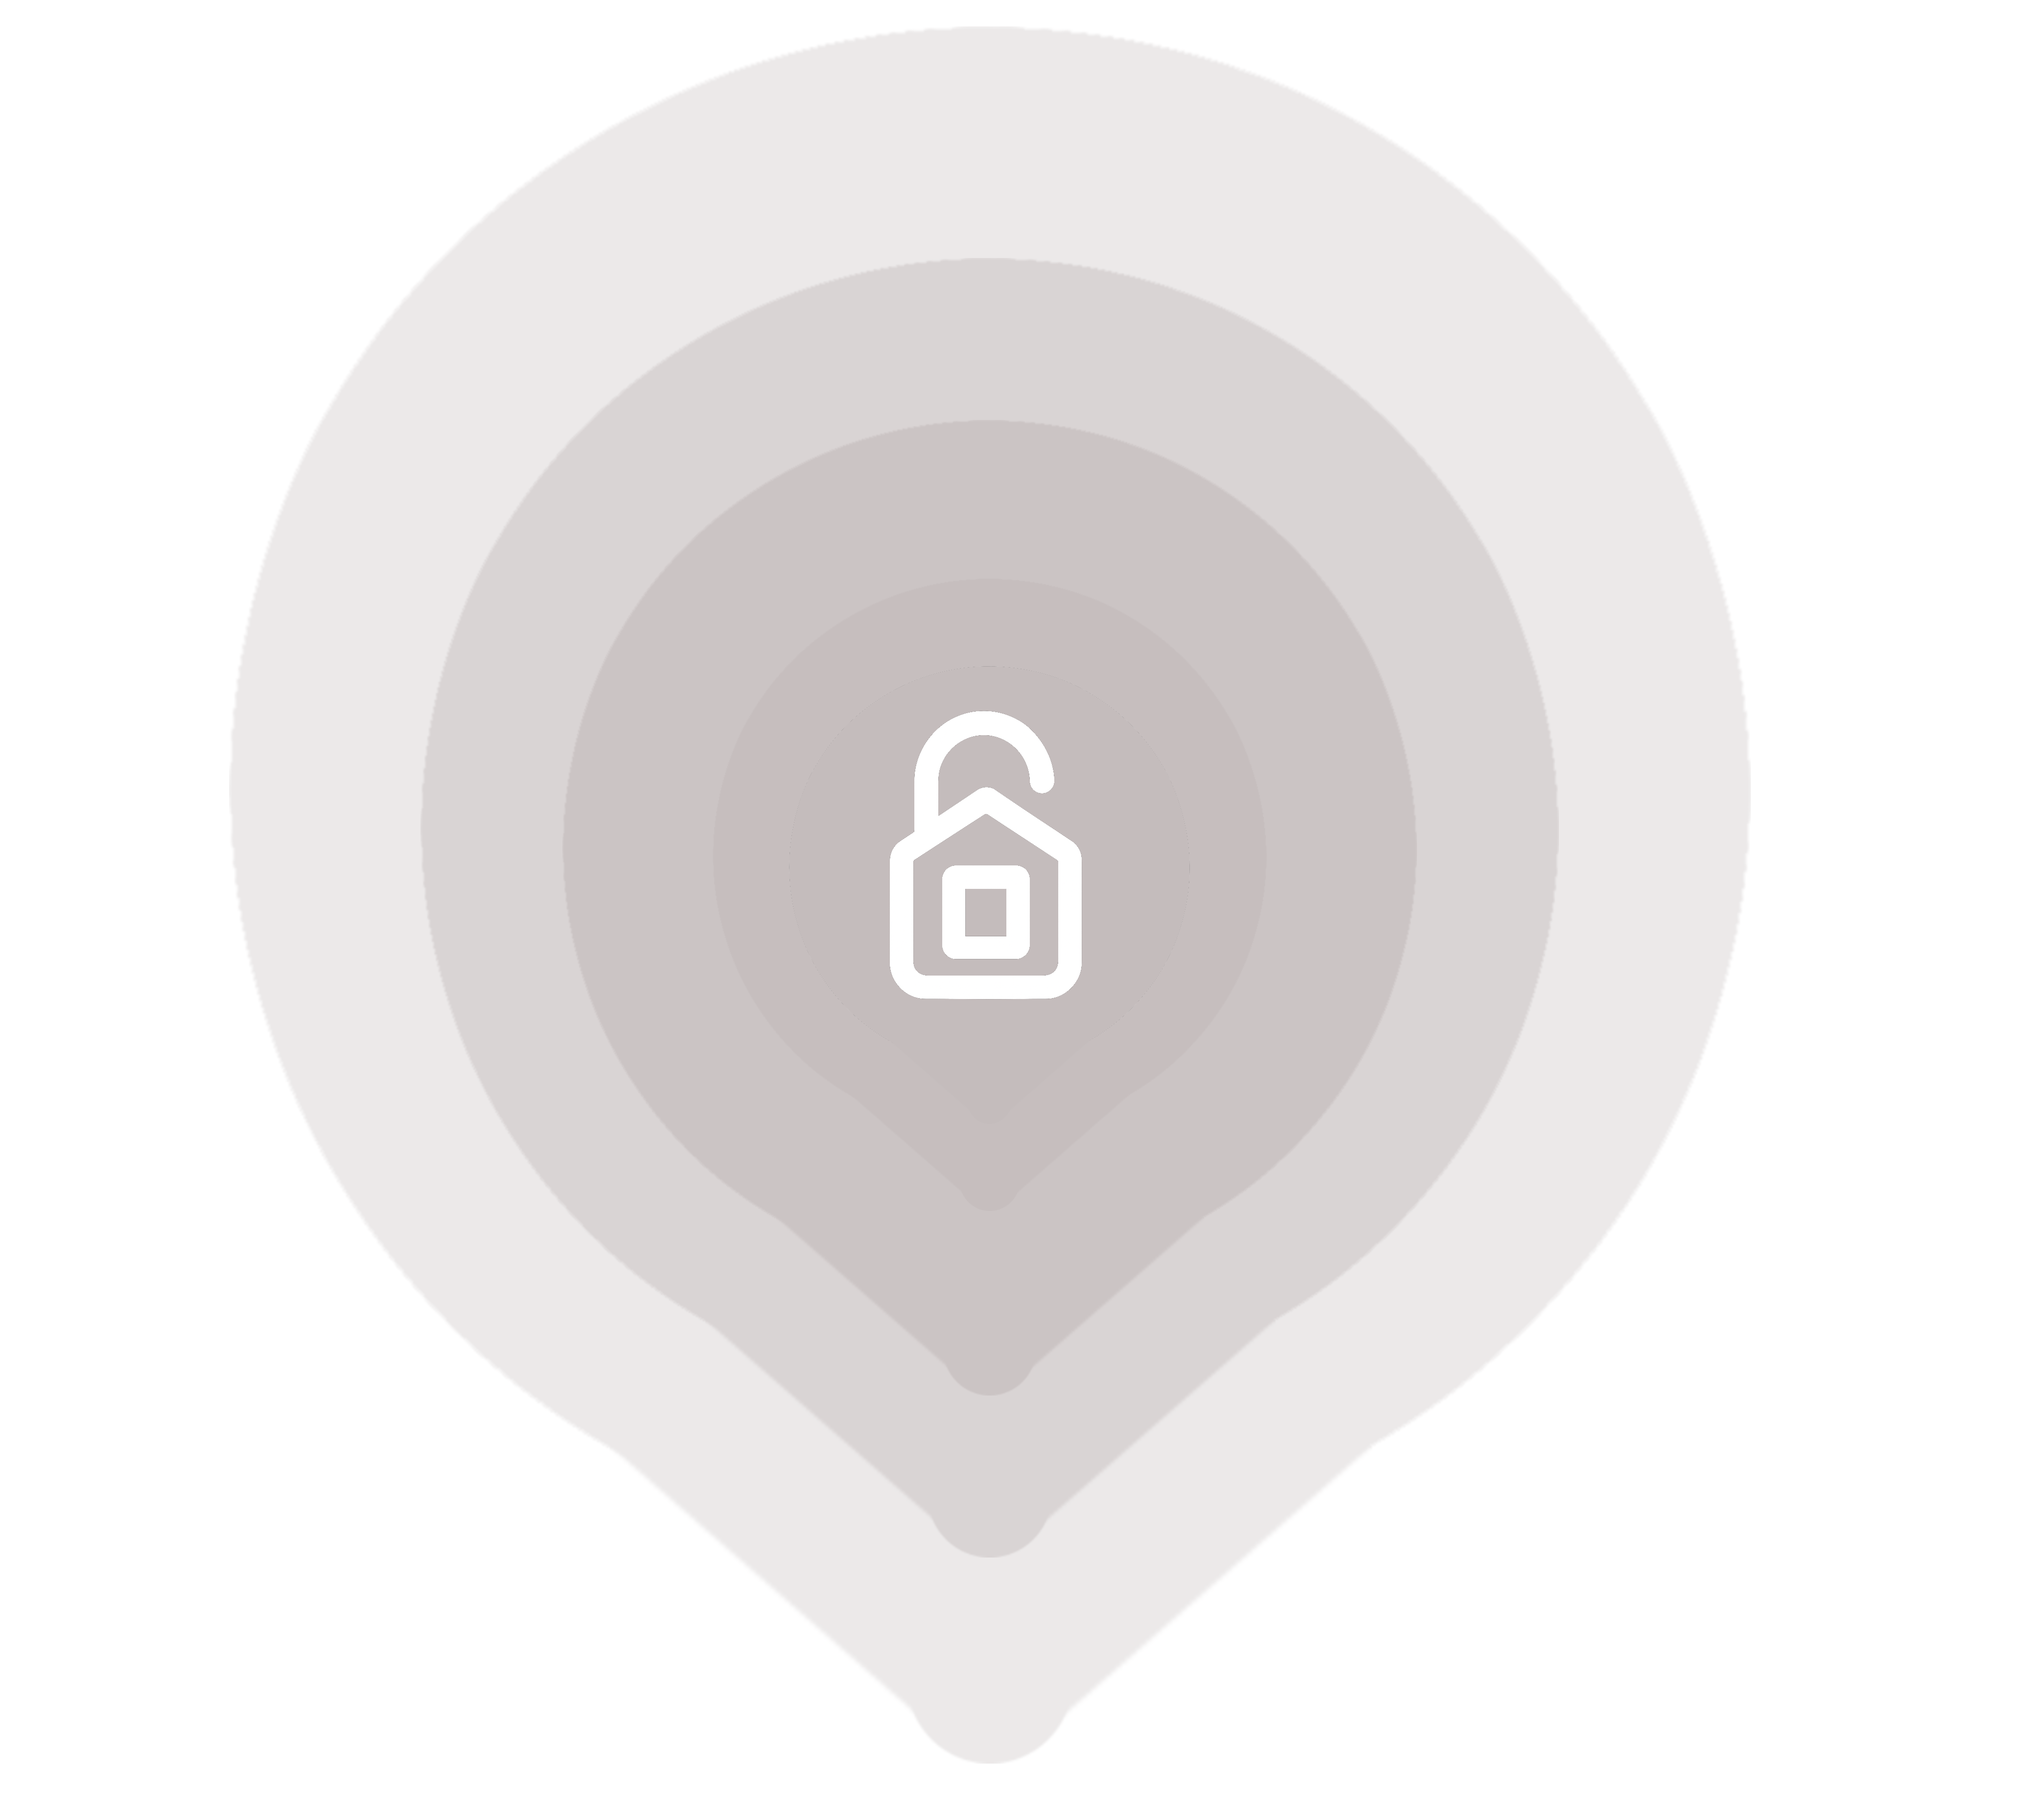
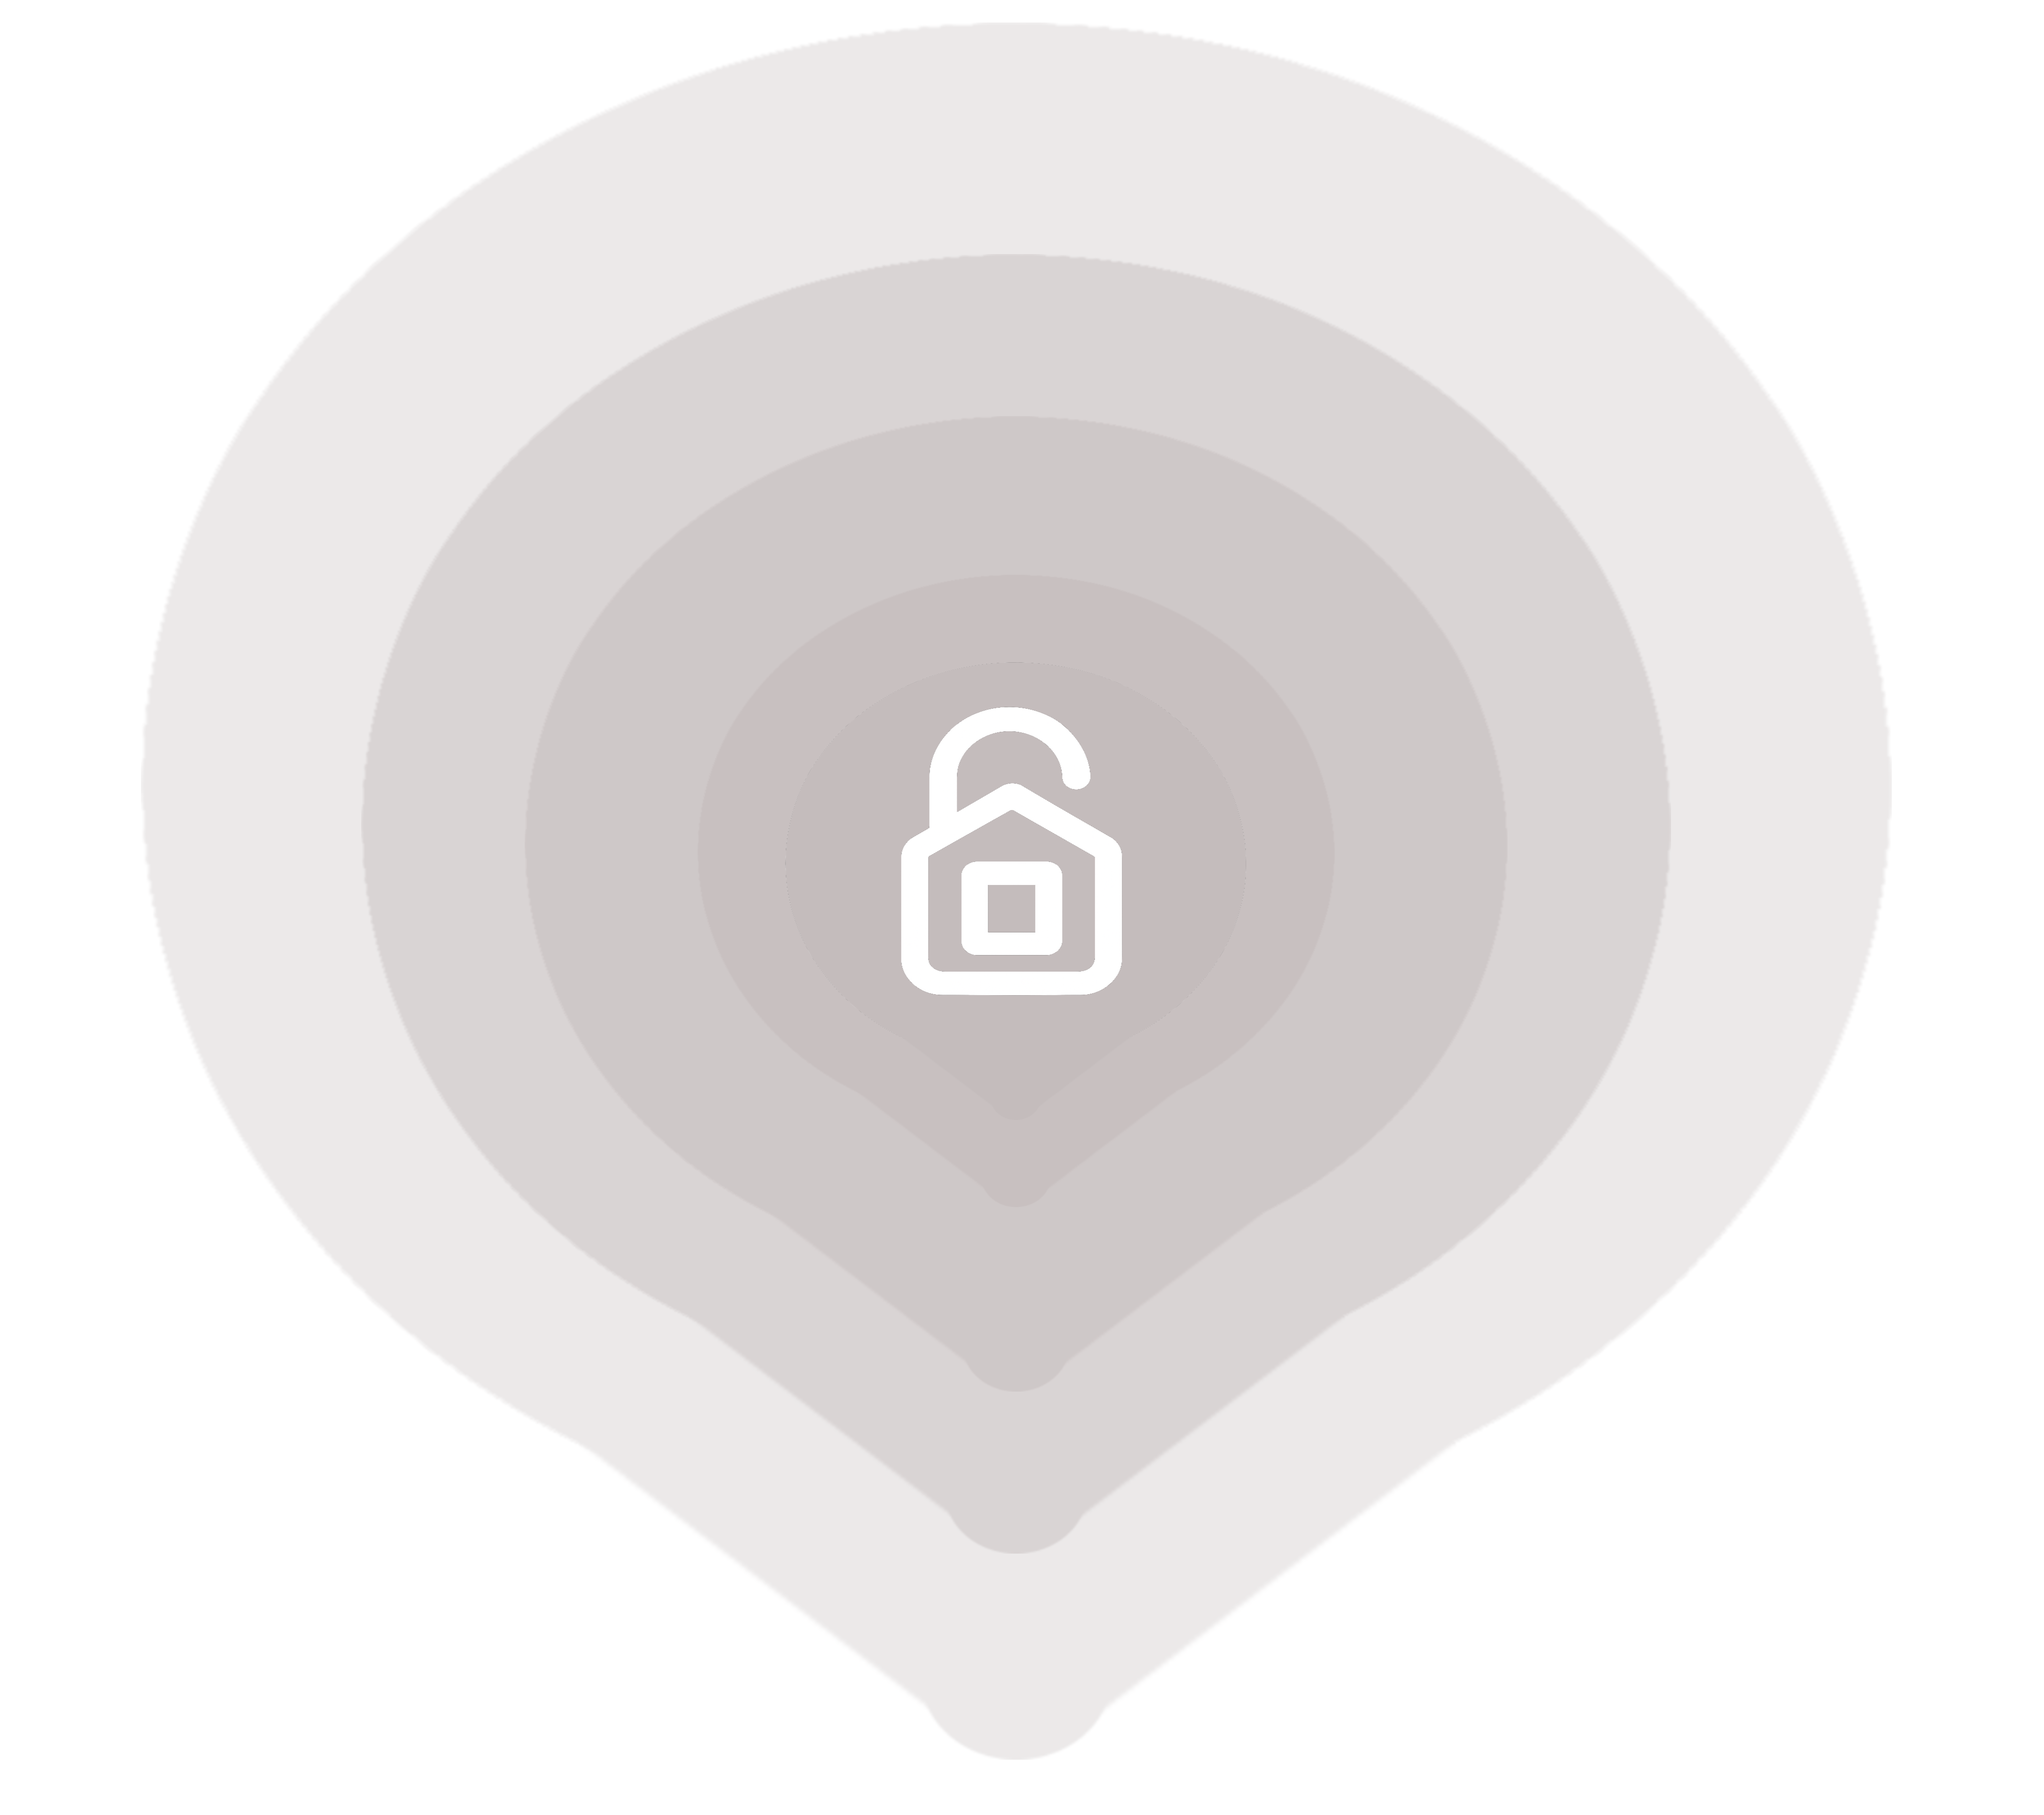
feat: larger map marker (160px) and zoom level 14 for neighborhood view

Changed region(s): [[0.4358, 0.3722, 0.5603, 0.5583]]

diff --git a/apps/web/src/components/Map.tsx b/apps/web/src/components/Map.tsx
@@ -450,15 +450,15 @@ export default function Map({
           keyboardShortcuts: false,
         });
 
-        // Centrer et zoomer sur la position
+        // Centrer et zoomer sur la position (niveau quartier/rue)
         map.setCenter(position);
-        map.setZoom(15);
+        map.setZoom(14);
 
-        // Ajouter le marqueur
+        // Ajouter le marqueur (très grand)
         const marker = new g.maps.Marker({
           map,
           position,
-          icon: { url: "/map-marker-lokroom 2.0.png", scaledSize: new g.maps.Size(100, 100) },
+          icon: { url: "/map-marker-lokroom 2.0.png", scaledSize: new g.maps.Size(160, 160) },
         });
         markersInstancesRef.current.push(marker);
         return;
